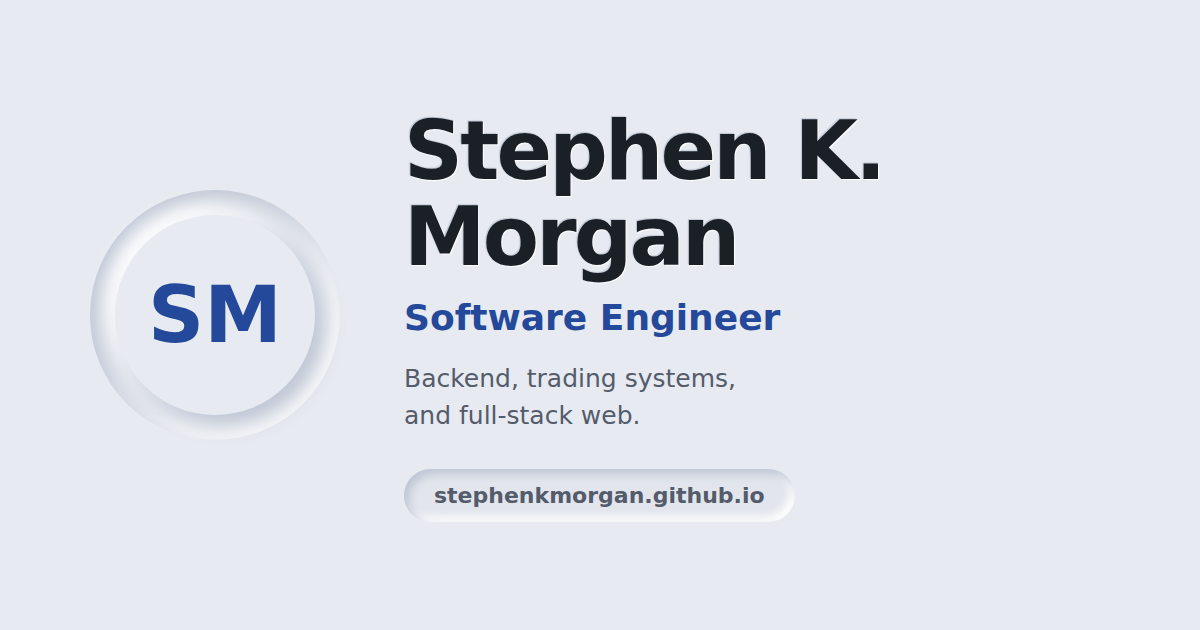
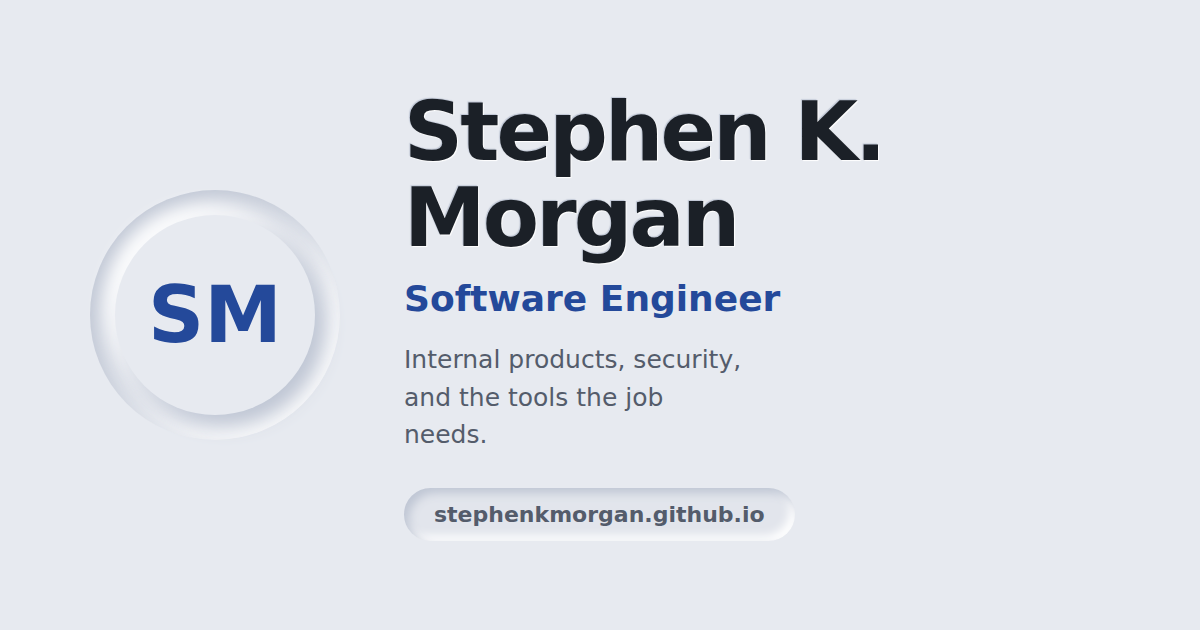
Replace placeholder copy with real background; drop job-seeking framing
The site shipped as scaffolding — "Job title / Company name" in Experience,
YOUR-EMAIL@example.com in Contact, and a bio written from inference. This
fills all of it in with confirmed facts.

The bigger change is one of purpose. The page was built as a job-hunting
site: a green "Open to software engineering roles" badge, "Currently: Open to
new roles", and a contact section opening with the same. Stephen is not job
searching — this is a place to show what he has built — so that framing is
gone. The status badge now names his current role, and its dot is accent blue
rather than green, since a green status dot reads as an availability signal.

Content now on the page:
- Software Engineer at GOLDPoint Systems, Oct 2021 - Present, promoted to the
  internal products and security team in 2025.
- B.S. Computer Science, Software Engineering emphasis, BYU 2021-2025, with
  machine learning electives (worded as coursework, not a credential).
- Lab Technician & 3D Printing Specialist, USDA Agricultural Research Service,
  2017-2018, building and iterating on custom equipment for researchers.

Hero, meta descriptions and the regenerated Open Graph card lead with internal
products and security. This drops the earlier generic mentions of trading
work, which no longer match the positioning and pointed at a project card that
has since been removed.

Resume and LinkedIn are removed rather than stubbed: both buttons are gone,
[…]

Changed region(s): [[0.3392, 0.1508, 0.74, 0.8444]]

diff --git a/index.html b/index.html
@@ -5,20 +5,20 @@
 <meta name="viewport" content="width=device-width, initial-scale=1">
 
 <title>Stephen K. Morgan — Software Engineer</title>
-<meta name="description" content="Stephen K. Morgan is a software engineer building backend services, trading tools, and full-stack applications in C#, TypeScript, and Python.">
+<meta name="description" content="Software engineer on the internal products and security team at GOLDPoint Systems, with a background in machine learning and 3D printing.">
 <meta name="author" content="Stephen K. Morgan">
 <link rel="canonical" href="https://stephenkmorgan.github.io/">
 
 <meta property="og:type" content="website">
 <meta property="og:url" content="https://stephenkmorgan.github.io/">
 <meta property="og:title" content="Stephen K. Morgan — Software Engineer">
-<meta property="og:description" content="Software engineer building backend services, trading tools, and full-stack applications in C#, TypeScript, and Python.">
+<meta property="og:description" content="Software engineer on internal products and security at GOLDPoint Systems, with a background in machine learning.">
 <meta property="og:image" content="https://stephenkmorgan.github.io/assets/img/og-image.png">
 <meta property="og:image:width" content="1200">
 <meta property="og:image:height" content="630">
 <meta name="twitter:card" content="summary_large_image">
 <meta name="twitter:title" content="Stephen K. Morgan — Software Engineer">
-<meta name="twitter:description" content="Software engineer building backend services, trading tools, and full-stack applications in C#, TypeScript, and Python.">
+<meta name="twitter:description" content="Software engineer on internal products and security at GOLDPoint Systems, with a background in machine learning.">
 <meta name="twitter:image" content="https://stephenkmorgan.github.io/assets/img/og-image.png">
 
 <link rel="icon" href="assets/img/favicon.svg" type="image/svg+xml">
@@ -49,11 +49,15 @@
   "name": "Stephen K. Morgan",
   "url": "https://stephenkmorgan.github.io/",
   "jobTitle": "Software Engineer",
+  "worksFor": {
+    "@type": "Organization",
+    "name": "GOLDPoint Systems"
+  },
   "alumniOf": {
     "@type": "CollegeOrUniversity",
     "name": "Brigham Young University"
   },
-  "knowsAbout": ["Software Engineering", "C#", "TypeScript", "Python", "Java", "Web Development"],
+  "knowsAbout": ["Software Engineering", "Application Security", "Machine Learning", "C#", "TypeScript", "Python", "Java", "3D Printing"],
   "sameAs": ["https://github.com/StephenKMorgan"]
 }
 </script>
@@ -72,14 +76,8 @@
     <symbol id="i-github" viewBox="0 0 24 24" fill="currentColor">
       <path d="M12 .5C5.73.5.99 5.24.99 11.5c0 4.86 3.15 8.98 7.52 10.43.55.1.75-.24.75-.53v-1.9c-3.06.66-3.71-1.3-3.71-1.3-.5-1.28-1.23-1.62-1.23-1.62-1-.68.08-.67.08-.67 1.1.08 1.69 1.14 1.69 1.14.98 1.69 2.58 1.2 3.21.92.1-.71.39-1.2.7-1.48-2.44-.28-5.01-1.22-5.01-5.44 0-1.2.43-2.18 1.13-2.95-.11-.28-.49-1.4.11-2.92 0 0 .93-.3 3.03 1.13a10.5 10.5 0 0 1 5.52 0c2.1-1.43 3.02-1.13 3.02-1.13.6 1.52.22 2.64.11 2.92.71.77 1.13 1.75 1.13 2.95 0 4.23-2.58 5.16-5.03 5.43.4.34.75 1.01.75 2.04v3.03c0 .29.2.64.76.53a10.53 10.53 0 0 0 7.51-10.43C23.01 5.24 18.27.5 12 .5z"/>
     </symbol>
-    <symbol id="i-linkedin" viewBox="0 0 24 24" fill="currentColor">
-      <path d="M20.45 20.45h-3.56v-5.57c0-1.33-.03-3.04-1.85-3.04-1.86 0-2.14 1.45-2.14 2.95v5.66H9.35V9h3.41v1.56h.05a3.74 3.74 0 0 1 3.37-1.85c3.6 0 4.27 2.37 4.27 5.46zM5.34 7.43a2.06 2.06 0 1 1 0-4.13 2.06 2.06 0 0 1 0 4.13zM7.12 20.45H3.55V9h3.57zM22.22 0H1.77C.79 0 0 .77 0 1.72v20.56C0 23.23.79 24 1.77 24h20.45c.98 0 1.78-.77 1.78-1.72V1.72C24 .77 23.2 0 22.22 0z"/>
-    </symbol>
     <symbol id="i-mail" viewBox="0 0 24 24" fill="none" stroke="currentColor" stroke-width="2" stroke-linecap="round" stroke-linejoin="round">
       <rect x="2" y="4" width="20" height="16" rx="2"/><path d="m2 7 10 6 10-6"/>
-    </symbol>
-    <symbol id="i-download" viewBox="0 0 24 24" fill="none" stroke="currentColor" stroke-width="2" stroke-linecap="round" stroke-linejoin="round">
-      <path d="M12 3v12"/><path d="m7 12 5 5 5-5"/><path d="M4 21h16"/>
     </symbol>
     <symbol id="i-sun" viewBox="0 0 24 24" fill="none" stroke="currentColor" stroke-width="2" stroke-linecap="round">
       <circle cx="12" cy="12" r="4.2"/>
@@ -150,8 +148,6 @@
 
   <!-- =================================================================
        Hero
-       TODO(Stephen): replace the role line and the pitch paragraph with
-       your own wording once you send me your resume.
        ================================================================= -->
   <section class="hero" id="top" aria-labelledby="hero-name">
     <div class="wrap">
@@ -159,16 +155,17 @@
         <div>
           <p class="hero__status pressed-sm">
             <span class="hero__dot" aria-hidden="true"></span>
-            Open to software engineering roles
+            Software Engineer at GOLDPoint Systems
           </p>
 
           <h1 class="hero__name letterpress" id="hero-name">Stephen K.<br>Morgan</h1>
           <p class="hero__role">Software Engineer</p>
 
           <p class="hero__pitch">
-            Computer science graduate who builds things that have to keep
-            running — trading systems, streaming tooling, and full-stack web
-            applications across C#, TypeScript, and Python.
+            I build internal products and security software at GOLDPoint
+            Systems. Before I wrote software for a living I was 3D-printing lab
+            equipment for USDA researchers — different tools, same job: making
+            the thing someone else needs to get their work done.
           </p>
 
           <div class="btn-row">
@@ -199,8 +196,6 @@
 
   <!-- =================================================================
        About
-       TODO(Stephen): rewrite both paragraphs in your own voice, and fill
-       in the graduation year and location.
        ================================================================= -->
   <section class="section" id="about" aria-labelledby="about-title">
     <div class="wrap">
@@ -212,18 +207,21 @@
       <div class="about">
         <div class="card raised reveal">
           <p>
-            I studied computer science at Brigham Young University, where most of
-            what stuck came from the systems side — writing a chess server, a
-            shell, and enough C to respect a segfault. Since finishing, I have
-            spent my time on projects that live outside a grading rubric: market
-            data pipelines, broadcast tooling, and a long-running PHP application
-            I have maintained through several rewrites.
+            My first engineering job was at the USDA Agricultural Research
+            Service, where I was the 3D printing specialist. Scientists would
+            describe an experiment they could not quite run, and I would design
+            and print the equipment that made it possible — then rework it as
+            they found out what it actually needed to do, and sometimes run the
+            experiment myself.
           </p>
           <p>
-            I like problems where correctness is checkable and the feedback loop
-            is short. I care about code that the next person can read, and I would
-            rather ship something small that works than something clever that
-            almost does.
+            I have been at GOLDPoint Systems since 2021, and moved to the
+            internal products and security team in 2025. It is the same work in
+            a different medium: the people I build for sit down the hall, the
+            requirements arrive half-formed, and the second version is always
+            the one that matters. I studied computer science at BYU alongside
+            that job, with a software engineering emphasis and every elective I
+            could spend on machine learning.
           </p>
         </div>
 
@@ -231,15 +229,15 @@
           <ul class="factlist">
             <li class="fact">
               <p class="fact__label">Education</p>
-              <p class="fact__value">B.S. Computer Science<br>Brigham Young University</p>
+              <p class="fact__value">B.S. Computer Science<br>Software Engineering emphasis<br>Brigham Young University, 2025</p>
             </li>
             <li class="fact">
               <p class="fact__label">Focus</p>
-              <p class="fact__value">Backend &amp; full-stack engineering</p>
+              <p class="fact__value">Internal products &amp; security</p>
             </li>
             <li class="fact">
               <p class="fact__label">Currently</p>
-              <p class="fact__value">Open to new roles</p>
+              <p class="fact__value">Software Engineer<br>GOLDPoint Systems</p>
             </li>
             <li class="fact">
               <p class="fact__label">Elsewhere</p>
@@ -255,9 +253,10 @@
 
   <!-- =================================================================
        Experience
-       TODO(Stephen): these two entries are STRUCTURE ONLY — I have no
-       record of your work history. Replace titles, employers, dates and
-       every bullet. Duplicate a .card block to add more roles.
+       TODO(Stephen): the GOLDPoint bullets are deliberately thin — they say
+       only what you told me (tenure + the 2025 promotion) and invent nothing.
+       Add what you actually build there: the systems you own, a project you
+       shipped, the stack you use day to day.
        ================================================================= -->
   <section class="section" id="experience" aria-labelledby="experience-title">
     <div class="wrap">
@@ -272,26 +271,14 @@
       <div class="timeline">
         <article class="card raised reveal">
           <div class="role__head">
-            <h3 class="role__title">Job title</h3>
-            <p class="role__org">Company name</p>
-            <p class="role__dates pressed-sm">2024 &ndash; Present</p>
+            <h3 class="role__title">Software Engineer</h3>
+            <p class="role__org">GOLDPoint Systems</p>
+            <p class="role__dates pressed-sm">Oct 2021 &ndash; Present</p>
           </div>
           <ul class="bullets">
-            <li>What you owned, and the scale it operated at.</li>
-            <li>A change you made and the measurable result it produced.</li>
-            <li>The stack you used day to day.</li>
-          </ul>
-        </article>
-
-        <article class="card raised reveal">
-          <div class="role__head">
-            <h3 class="role__title">Earlier role</h3>
-            <p class="role__org">Company name</p>
-            <p class="role__dates pressed-sm">2022 &ndash; 2024</p>
-          </div>
-          <ul class="bullets">
-            <li>What you were brought in to do.</li>
-            <li>Something you built or improved, with a number attached.</li>
+            <li>Promoted to the internal products and security team in 2025, after four years building and maintaining production software.</li>
+            <li>Build the internal tools other teams depend on, and work on the security side of the products we ship.</li>
+            <li>Worked here full time while finishing my computer science degree.</li>
           </ul>
         </article>
 
@@ -299,11 +286,25 @@
           <div class="role__head">
             <h3 class="role__title">B.S. Computer Science</h3>
             <p class="role__org">Brigham Young University</p>
-            <p class="role__dates pressed-sm">Graduated</p>
+            <p class="role__dates pressed-sm">2021 &ndash; 2025</p>
           </div>
           <ul class="bullets">
+            <li>Software engineering emphasis, with every elective spent on machine learning.</li>
             <li>Coursework across software construction, algorithms and data structures, computer systems, web programming, and DevOps.</li>
             <li>Built a full chess client and server in Java, and systems-level projects in C and C++.</li>
+          </ul>
+        </article>
+
+        <article class="card raised reveal">
+          <div class="role__head">
+            <h3 class="role__title">Lab Technician &amp; 3D Printing Specialist</h3>
+            <p class="role__org">USDA Agricultural Research Service</p>
+            <p class="role__dates pressed-sm">2017 &ndash; 2018</p>
+          </div>
+          <ul class="bullets">
+            <li>Designed and fabricated the custom equipment researchers needed to run their experiments.</li>
+            <li>Iterated on each design with the scientists using it, reworking tools as the requirements became clear.</li>
+            <li>Ran experiments directly alongside the research team.</li>
           </ul>
         </article>
       </div>
@@ -312,9 +313,10 @@
 
   <!-- =================================================================
        Skills
-       TODO(Stephen): this list is inferred from the languages in your
-       GitHub repos. Delete anything you would not want to be interviewed
-       on, and add what is missing.
+       TODO(Stephen): the languages are drawn from your repos and the ML /
+       fabrication entries from your USDA and BYU work. React, Docker, CI/CD,
+       SQL and Agile are still MY INFERENCE, not things you confirmed —
+       delete anything you would not want to be interviewed on.
        ================================================================= -->
   <section class="section" id="skills" aria-labelledby="skills-title">
     <div class="wrap">
@@ -347,6 +349,7 @@
             <li class="chip pressed-sm">REST APIs</li>
             <li class="chip pressed-sm">WebSockets</li>
             <li class="chip pressed-sm">Godot</li>
+            <li class="chip pressed-sm">Machine Learning</li>
           </ul>
         </div>
 
@@ -359,6 +362,8 @@
             <li class="chip pressed-sm">Linux</li>
             <li class="chip pressed-sm">Testing</li>
             <li class="chip pressed-sm">Agile</li>
+            <li class="chip pressed-sm">3D Printing</li>
+            <li class="chip pressed-sm">CAD</li>
           </ul>
         </div>
       </div>
@@ -483,9 +488,6 @@
 
   <!-- =================================================================
        Contact
-       TODO(Stephen): set the real email address and your LinkedIn URL,
-       then drop your resume PDF at the path below. I left the address
-       out on purpose rather than guess from your git history.
        ================================================================= -->
   <section class="section" id="contact" aria-labelledby="contact-title">
     <div class="wrap">
@@ -493,26 +495,18 @@
         <p class="section__eyebrow pressed-sm">Contact</p>
         <h2 class="section__title letterpress" id="contact-title">Let&rsquo;s talk</h2>
         <p class="section__lede">
-          I am open to software engineering roles and interesting problems.
-          The fastest way to reach me is email.
+          This site is where I keep track of what I have built. If any of it is
+          interesting to you, email is the fastest way to reach me.
         </p>
 
         <div class="btn-row">
-          <a class="btn btn--primary" href="mailto:YOUR-EMAIL@example.com">
+          <a class="btn btn--primary" href="mailto:stephenmorganfb@gmail.com">
             <svg aria-hidden="true"><use href="#i-mail"/></svg>
-            Email me
-          </a>
-          <a class="btn" href="https://www.linkedin.com/in/YOUR-LINKEDIN/" target="_blank" rel="noopener">
-            <svg aria-hidden="true"><use href="#i-linkedin"/></svg>
-            LinkedIn
+            stephenmorganfb@gmail.com
           </a>
           <a class="btn" href="https://github.com/StephenKMorgan" target="_blank" rel="noopener">
             <svg aria-hidden="true"><use href="#i-github"/></svg>
             GitHub
-          </a>
-          <a class="btn" href="assets/resume/Stephen-Morgan-Resume.pdf" download>
-            <svg aria-hidden="true"><use href="#i-download"/></svg>
-            Resume
           </a>
         </div>
       </div>

diff --git a/assets/css/style.css b/assets/css/style.css
@@ -462,15 +462,19 @@ ul { margin: 0; padding: 0; list-style: none; }
   letter-spacing: 0.02em;
 }
 
+/* Accent, deliberately not green: a green status dot reads as an
+   "open to work" availability signal, which this badge is not. */
 .hero__dot {
   width: 8px;
   height: 8px;
   flex: none;
   border-radius: 50%;
-  background: #1f9d55;
-  box-shadow: 0 0 0 3px rgba(31, 157, 85, 0.22);
+  background: var(--accent);
+  /* Static fallback first: an unsupported color-mix() drops the whole
+     declaration, and the halo should degrade rather than disappear. */
+  box-shadow: 0 0 0 3px rgba(47, 95, 191, 0.22);
+  box-shadow: 0 0 0 3px color-mix(in srgb, var(--accent) 22%, transparent);
 }
-:root[data-theme="dark"] .hero__dot { background: #34d17d; }
 
 .hero__name {
   font-size: clamp(2.4rem, 1.5rem + 4.2vw, 4.15rem);

diff --git a/README.md b/README.md
@@ -14,7 +14,6 @@ assets/css/style.css     design tokens + neumorphic component system
 assets/js/main.js        theme toggle, scroll-spy, mobile nav, reveal-on-scroll
 assets/fonts/            Inter (self-hosted variable font, latin subsets)
 assets/img/              favicon + Open Graph card
-assets/resume/           resume PDF
 ```
 
 ## Editing
